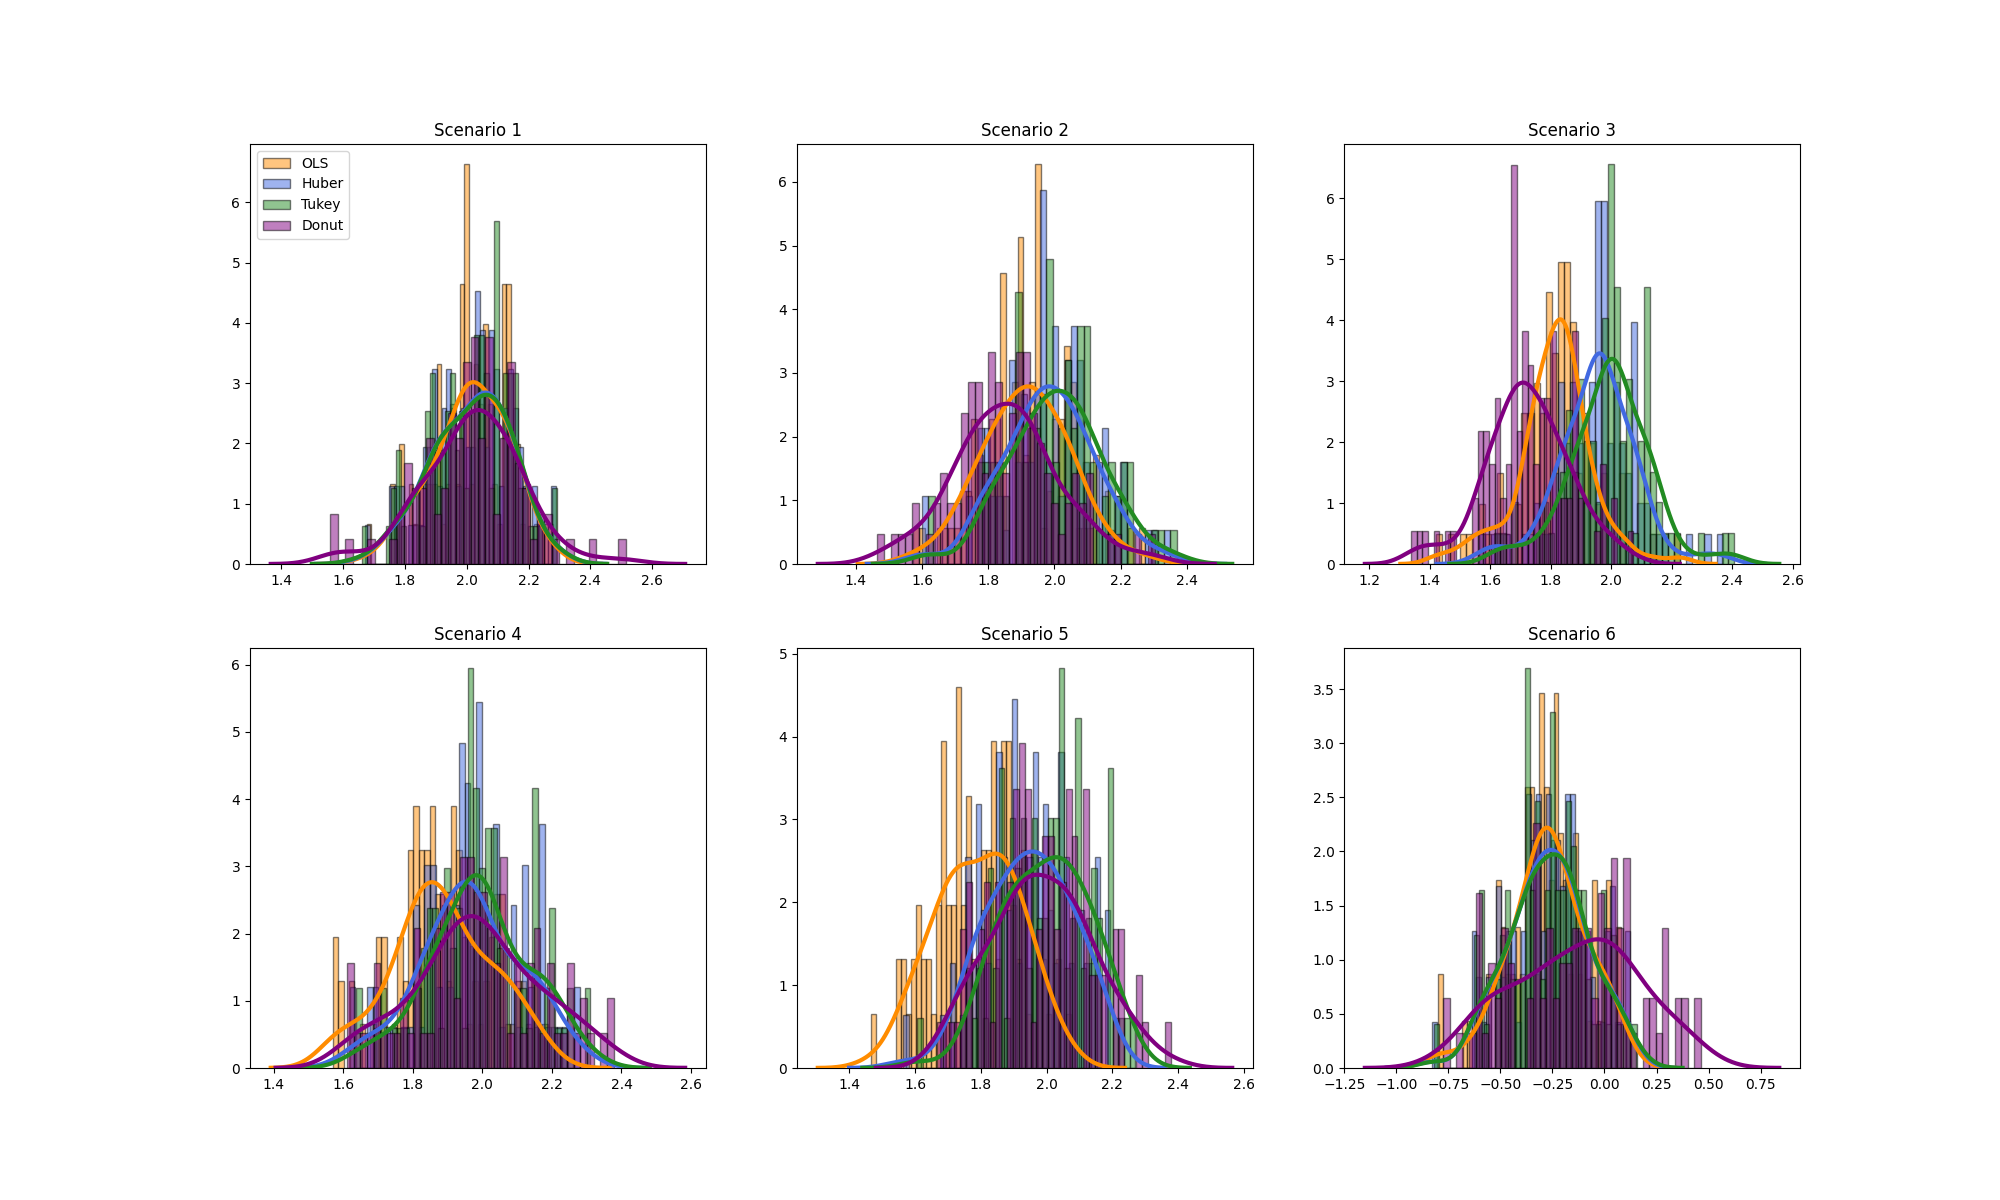
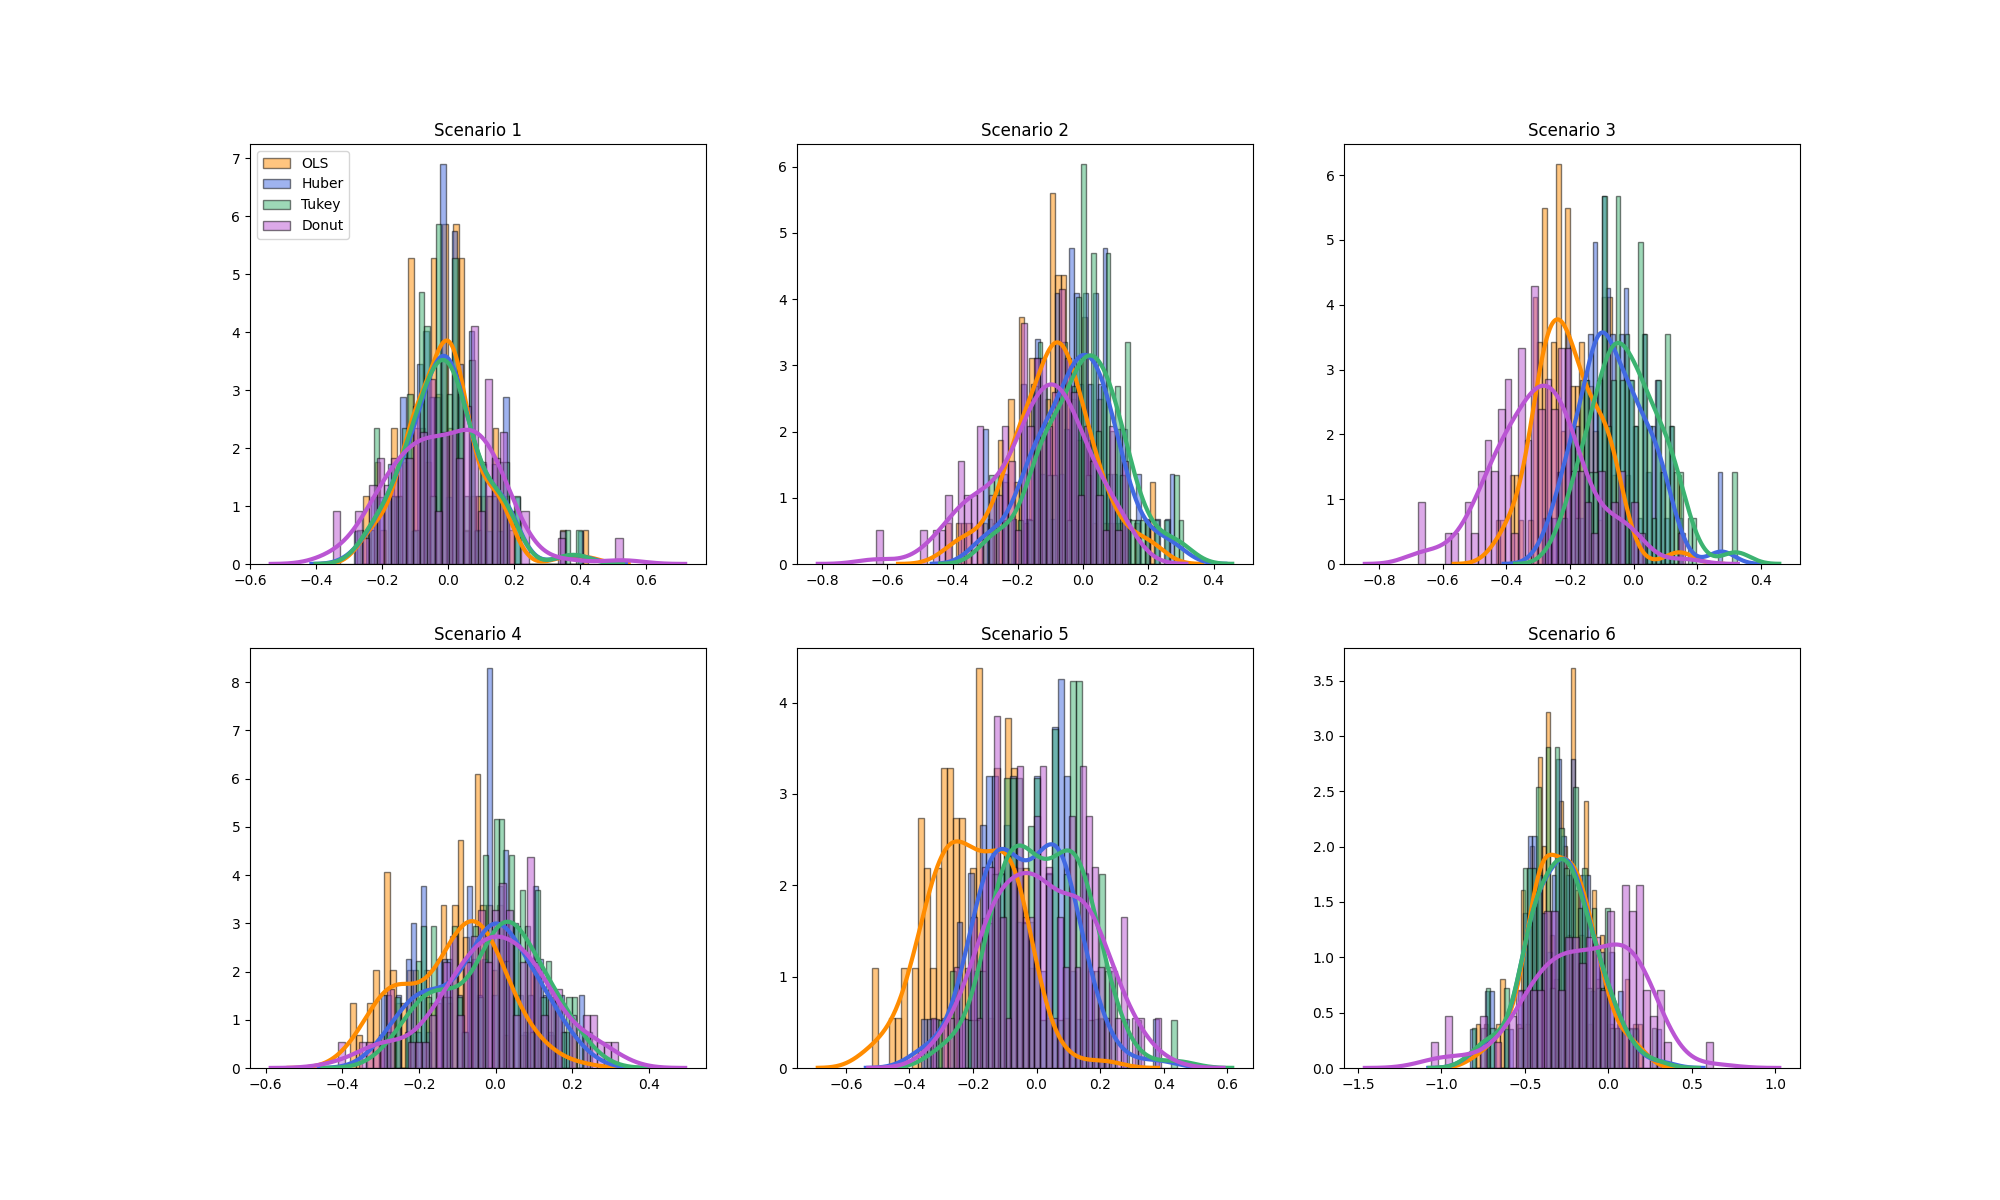
table JB and t-tests

diff --git a/src/simulation.py b/src/simulation.py
@@ -1,9 +1,10 @@
 import numpy as np
 import pandas as pd
-import statsmodels.api as sm
-from src.simMetrics import compRMSE
 from src.sample import genSample
 from src.rrdd import jointFitRD
+from src.simMetrics import compRMSE
+from src.simMetrics import compJB
+from src.exports import toLatexTable
 from src.exports import scenariosHist
 
 
@@ -40,7 +41,7 @@ def simulation(r,nameSample,n,tau=0,  alpha=0, beta=0, L=0, cutoff=0,b=1, outlie
     """ 
     # Creat empty output arrays
     
-    t = [{},{},{},{}]
+    bias = [{},{},{},{}]
 
     p_1 = [{},{},{},{}]
     p_05 = [{},{},{},{}]
@@ -66,7 +67,7 @@ def simulation(r,nameSample,n,tau=0,  alpha=0, beta=0, L=0, cutoff=0,b=1, outlie
             res = jointFitRD(models[i],sample)
 
             # Record point estimate
-            t[i] = np.append(t[i], res.params.iloc[2])
+            bias[i] = np.append(bias[i], res.params.iloc[2] - tau)
 
             # Calculate t test of Ho: t == tau is rejected
             if tau == 0:
@@ -119,7 +120,7 @@ def simulation(r,nameSample,n,tau=0,  alpha=0, beta=0, L=0, cutoff=0,b=1, outlie
     
     # Adjust the format of the arrays (delete empty first cell)
     for i in range(len(models)):
-        t[i] = np.delete(t[i],0)
+        bias[i] = np.delete(bias[i],0)
 
         p_1 [i] = np.delete(p_1 [i],0)
         p_05[i] = np.delete(p_05[i],0)
@@ -130,7 +131,7 @@ def simulation(r,nameSample,n,tau=0,  alpha=0, beta=0, L=0, cutoff=0,b=1, outlie
         ci_01[i] = np.delete(ci_01[i],0) 
 
     # Create dataframes with results from the simulation
-    pointEstimation = pd.DataFrame({'OLS':t[0], 'Huber':t[1], 'Tukey':t[2], 'Donut':t[3]})
+    pointEstimation = pd.DataFrame({'OLS':bias[0], 'Huber':bias[1], 'Tukey':bias[2], 'Donut':bias[3]})
 
     testValues_1  = pd.DataFrame({'OLS':p_1[0], 'Huber':p_1[1], 'Tukey':p_1[2], 'Donut':p_1[3]})
     testValues_05 = pd.DataFrame({'OLS':p_05[0], 'Huber':p_05[1], 'Tukey':p_05[2], 'Donut':p_05[3]})
@@ -184,31 +185,60 @@ def simulations(r,name,n,tau,alpha,beta,cutoff=0,L=0):
     point6, test6 , confInt6 = simulation(r,'Noack',n,tau=0,L=40,cutoff=cutoff,b=0.5,outlier=False)
 
     
-    # Create 2 dataframe with results about Mean, St.dev and RMSE 
-    multiCol1a = pd.MultiIndex.from_arrays([['Scenario 1', 'Scenario 1', 'Scenario 1',
+    # Create labels for dataframe with results about Mean, St.dev and RMSE 
+    multiCol1a = pd.MultiIndex.from_arrays([['Mean','St.Var','RMSE',
+                                             'Mean','St.Var','RMSE',
+                                             'Mean','St.Var','RMSE'],
+                                            ['Scenario 1', 'Scenario 1', 'Scenario 1',
                                              'Scenario 2', 'Scenario 2', 'Scenario 2',
-                                             'Scenario 3', 'Scenario 3', 'Scenario 3'], 
-                                           ['Mean','St.Var','RMSE',
-                                            'Mean','St.Var','RMSE',
-                                            'Mean','St.Var','RMSE',]])
+                                             'Scenario 3', 'Scenario 3', 'Scenario 3']])
     multiCol1b = pd.MultiIndex.from_arrays([['Scenario 4', 'Scenario 4', 'Scenario 4',
                                              'Scenario 5', 'Scenario 5', 'Scenario 5',
-                                             'Scenario 6', 'Scenario 6', 'Scenario 6'], 
-                                            ['Mean','St.Var','RMSE',
-                                             'Mean','St.Var','RMSE',
-                                             'Mean','St.Var','RMSE']])
+                                             'Scenario 6', 'Scenario 6', 'Scenario 6']])
     row = ['OLS', 'Huber', 'Tuckey', 'Donut']
+
+    # Create 2 dataframes with results about Mean, St.dev and RMSE 
     Results1a = pd.DataFrame(np.transpose(np.array([point1.mean(),point1.std(),compRMSE(point1, 2), 
                                                     point2.mean(),point2.std(),compRMSE(point2, 2), 
                                                     point3.mean(),point3.std(),compRMSE(point3, 2)])),
                                                     columns=multiCol1a, index=row)
-    
     Results1b = pd.DataFrame(np.transpose(np.array([point4.mean(),point4.std(),compRMSE(point4, 2), 
                                                     point5.mean(),point5.std(),compRMSE(point5, 2), 
                                                     point6.mean(),point6.std(),compRMSE(point6, 2)])),
                                                     columns=multiCol1b, index=row)
     
-    scenariosHist([point1, point2, point3, point4, point5, point6],True,'images/testfig1.png')
+    # Create labels for dataframe with results about JB and t-test (Normal and student-t) 
+    multiCol1a = pd.MultiIndex.from_arrays([['', 'T-Test - T1 error', 'T-Test - T1 error',
+                                             '', 'T-Test - T1 error', 'T-Test - T1 error',
+                                             '', 'T-Test - T1 error', 'T-Test - T1 error',], 
+                                            ['JB','Normal','Student-t',
+                                             'JB','Normal','Student-t',
+                                             'JB','Normal','Student-t',],
+                                            ['Scenario 1', 'Scenario 1', 'Scenario 1',
+                                             'Scenario 2', 'Scenario 2', 'Scenario 2',
+                                             'Scenario 3', 'Scenario 3', 'Scenario 3']])
+    multiCol1b = pd.MultiIndex.from_arrays([['Scenario 4', 'Scenario 4', 'Scenario 4',
+                                             'Scenario 5', 'Scenario 5', 'Scenario 5',
+                                             'Scenario 6', 'Scenario 6', 'Scenario 6']])
+                                        
+    row = ['OLS', 'Huber', 'Tuckey', 'Donut']
+    
+    # Create 2 dataframes with results about JB and t-test (Normal and student-t) (0.1 significance)
+    Results2a_1 = pd.DataFrame(np.transpose(np.array([compJB(point1), test1[0].mean(),test1[0].mean(),
+                                                      compJB(point2), test2[0].mean(),test1[0].mean(), 
+                                                      compJB(point3), test3[0].mean(),test1[0].mean(),])),
+                                                      columns=multiCol1a, index=row)
+    
+    Results2b_1 = pd.DataFrame(np.transpose(np.array([compJB(point4), test4[0].mean(),test1[0].mean(),
+                                                      compJB(point5), test5[0].mean(),test1[0].mean(), 
+                                                      compJB(point6), test6[0].mean(),test1[0].mean(),])),
+                                                      columns=multiCol1b, index=row)
 
-
-    return Results1a , Results1b
+    # Captions for latex tablex
+    caption1 = 'Bias, standard deviation and root mean squared error of the point estimates of the treatment effect'
+    caption2 = 'Jarque-Bera test statistic of the simulated point estimates.'
+               'T-test incorrect rejection of $H_0: \hat{\tau}=\tau$ (normal and student\'s-t distributions)'
+    
+    scenariosHist([point1, point2, point3, point4, point5, point6],True,'images/scenariosHist.png')
+    toLatexTable(r, n, Results1a, Results1b,caption1,ref='table:R1')
+    toLatexTable(r, n, Results2a_1, Results2b_1,caption2,ref='table:R2_1')

diff --git a/src/exports.py b/src/exports.py
@@ -6,15 +6,15 @@ import statsmodels.stats.stattools as st
 from scipy.stats import norm
 
 
-def toLatexTable(results1,results2,r,n,):
+def toLatexTable(r,n,results1,results2='',caption='',ref=''):
     '''
     This method prints latex code for a table with the results.
 
     '''
     # Print results to latex tables
-    print("TABLE 1 - ")
-    print(results1.to_latex(float_format="{:.3f}".format, multicolumn_format='c'))
-    print(results2.to_latex(float_format="{:.3f}".format, multicolumn_format='c'))
+    print(results1.to_latex(float_format="{:.3f}".format, multicolumn_format='c',caption=caption,label=ref))
+    if any(results2 != ''):
+        print(results2.to_latex(float_format="{:.3f}".format, multicolumn_format='c',caption=caption,label=ref))
     print('r = ' +str(r)+' , n = '+str(n))
 
 
@@ -36,7 +36,7 @@ def scenariosHist(series, saveFig = False, figPath = ''):
     '''
     fig, axs = plt.subplots(2,3,figsize=[20,12])
     labels = ['OLS','Huber','Tukey','Donut']
-    colors = ['darkorange','royalblue','forestgreen','purple']
+    colors = ['darkorange','royalblue','mediumseagreen','mediumorchid']
     j ,l = 0,0
     for i in range(6):
         c = 0

diff --git a/src/simMetrics.py b/src/simMetrics.py
@@ -1,17 +1,22 @@
 import pandas as pd
 import statsmodels.api as sm
+import statsmodels.stats.stattools as st
 
 def compRMSE(pointEstimation, trueValue):
     '''
-    This method computes the RMSE of the estimates.
-
+    This method computes the RMSE of the estimates for all estimation methods.
     ''' 
     return [sm.tools.eval_measures.rmse(pointEstimation.OLS,trueValue), sm.tools.eval_measures.rmse(pointEstimation.Huber,trueValue), 
     sm.tools.eval_measures.rmse(pointEstimation.Tukey,trueValue), sm.tools.eval_measures.rmse(pointEstimation.Donut,trueValue)]
 
-# print jarque-bera statistics
-    if JB == True:
-        print('Jarque-Bera : '+ st.jarque_bera(serie))
+def compJB(pointEstimation):
+    '''
+    This method computes the jarque-bera test for all estimation mathods.
+    '''
+    
+    return [st.jarque_bera(pointEstimation.OLS)[1],st.jarque_bera(pointEstimation.Huber)[1],
+            st.jarque_bera(pointEstimation.Tukey)[1],st.jarque_bera(pointEstimation.Donut)[1],]
+
 
 def percentV(values):
     return pd.DataFrame({'0.1': values[0].mean(),'0.05': values[1].mean(),'0.01': values[2].mean()})

diff --git a/dev.py b/dev.py
@@ -17,8 +17,6 @@ import pandas as pd
 #print(sample)
 #print(res.scale)
 
-#print(res.conf_int()[1][2])
-
 #print(res.pvalues)
 #print(res.t_test(([0,0,1,0],0.3)))
 #print(res.t_test(([0,0,1,0],0.3)).pvalue)
@@ -38,4 +36,4 @@ import pandas as pd
 r = 100
 n = 250
 
-results1, results2 = sim.simulations(r,'Basic Linear',n,tau=2,alpha=-1,beta=1,cutoff=0)
+sim.simulations(r,'Basic Linear',n,tau=2,alpha=-1,beta=1,cutoff=0)

diff --git a/tests/unit_tests/test_sample.py b/tests/unit_tests/test_sample.py
@@ -1,4 +1,4 @@
-import methods.sample as smp
+import src.sample as smp
 
 # These tests test the methods from sample.py
 def test_sign_pos():
